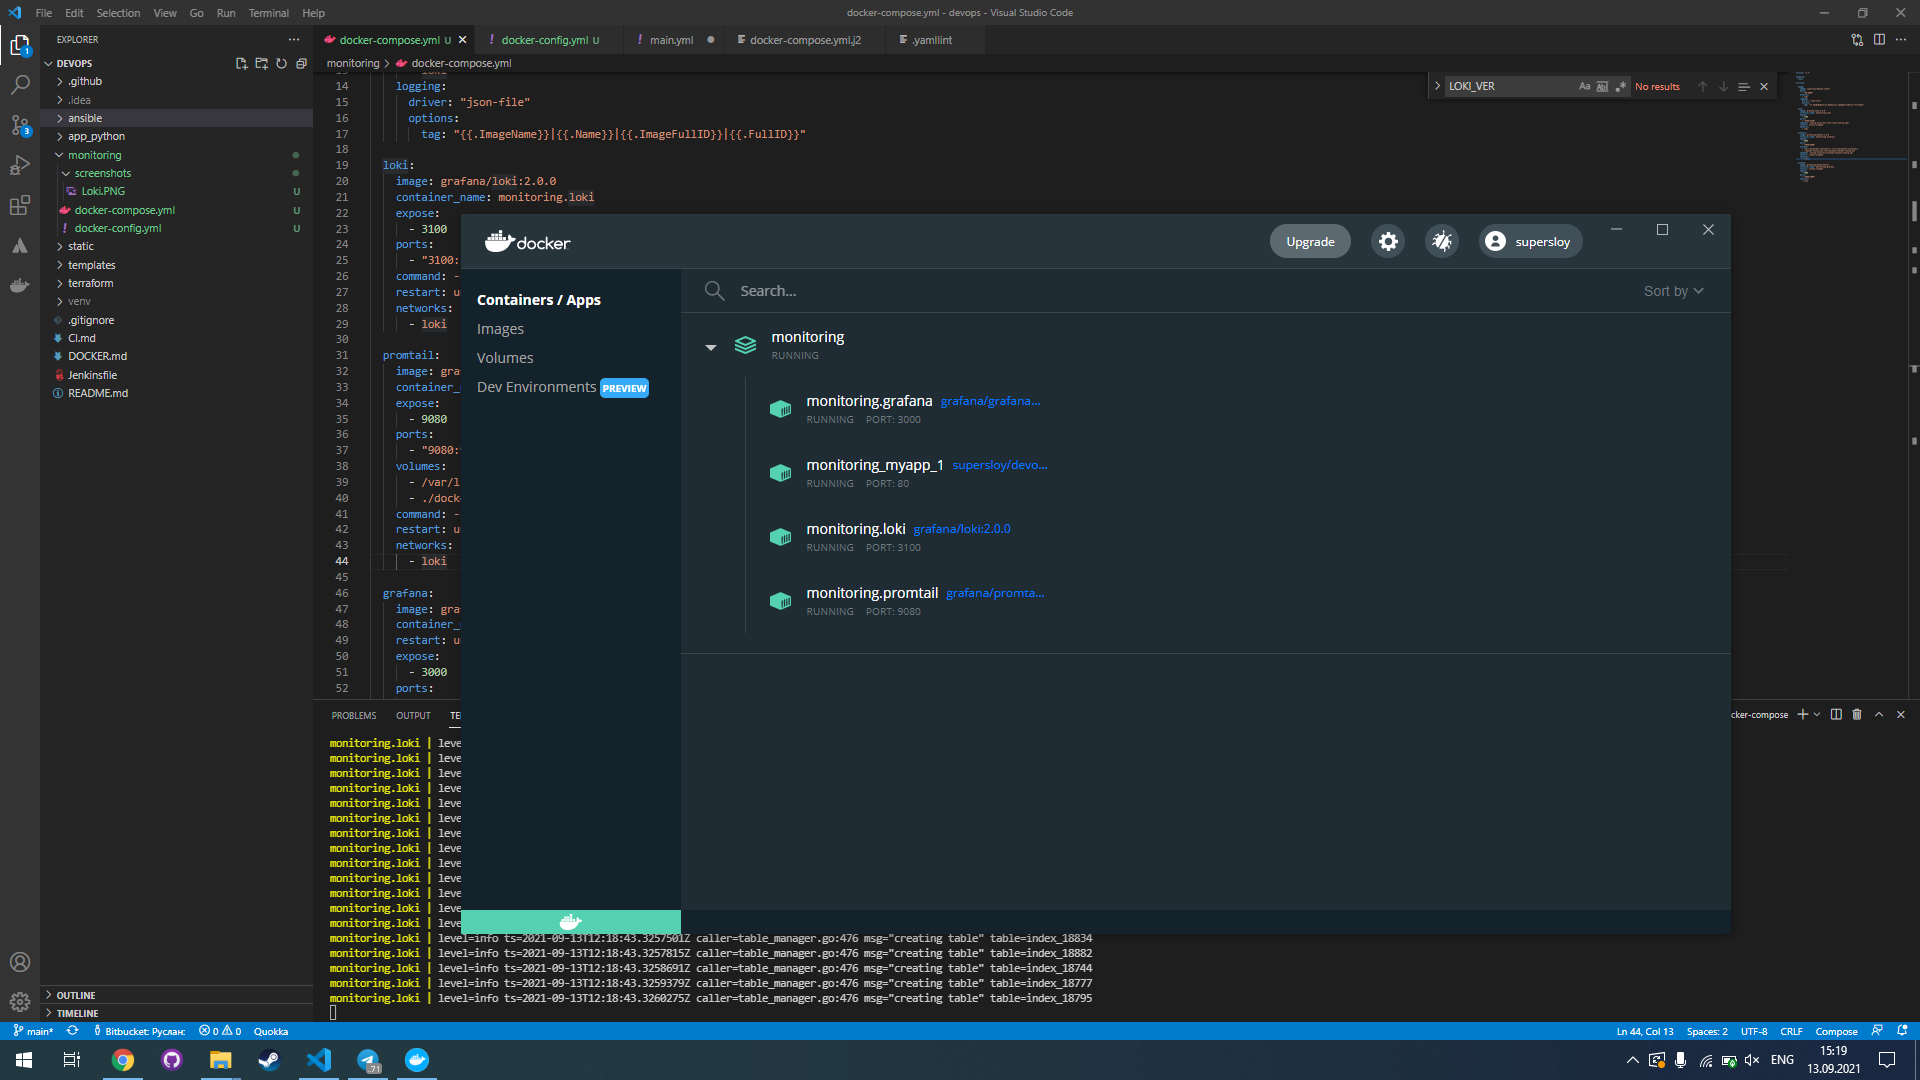
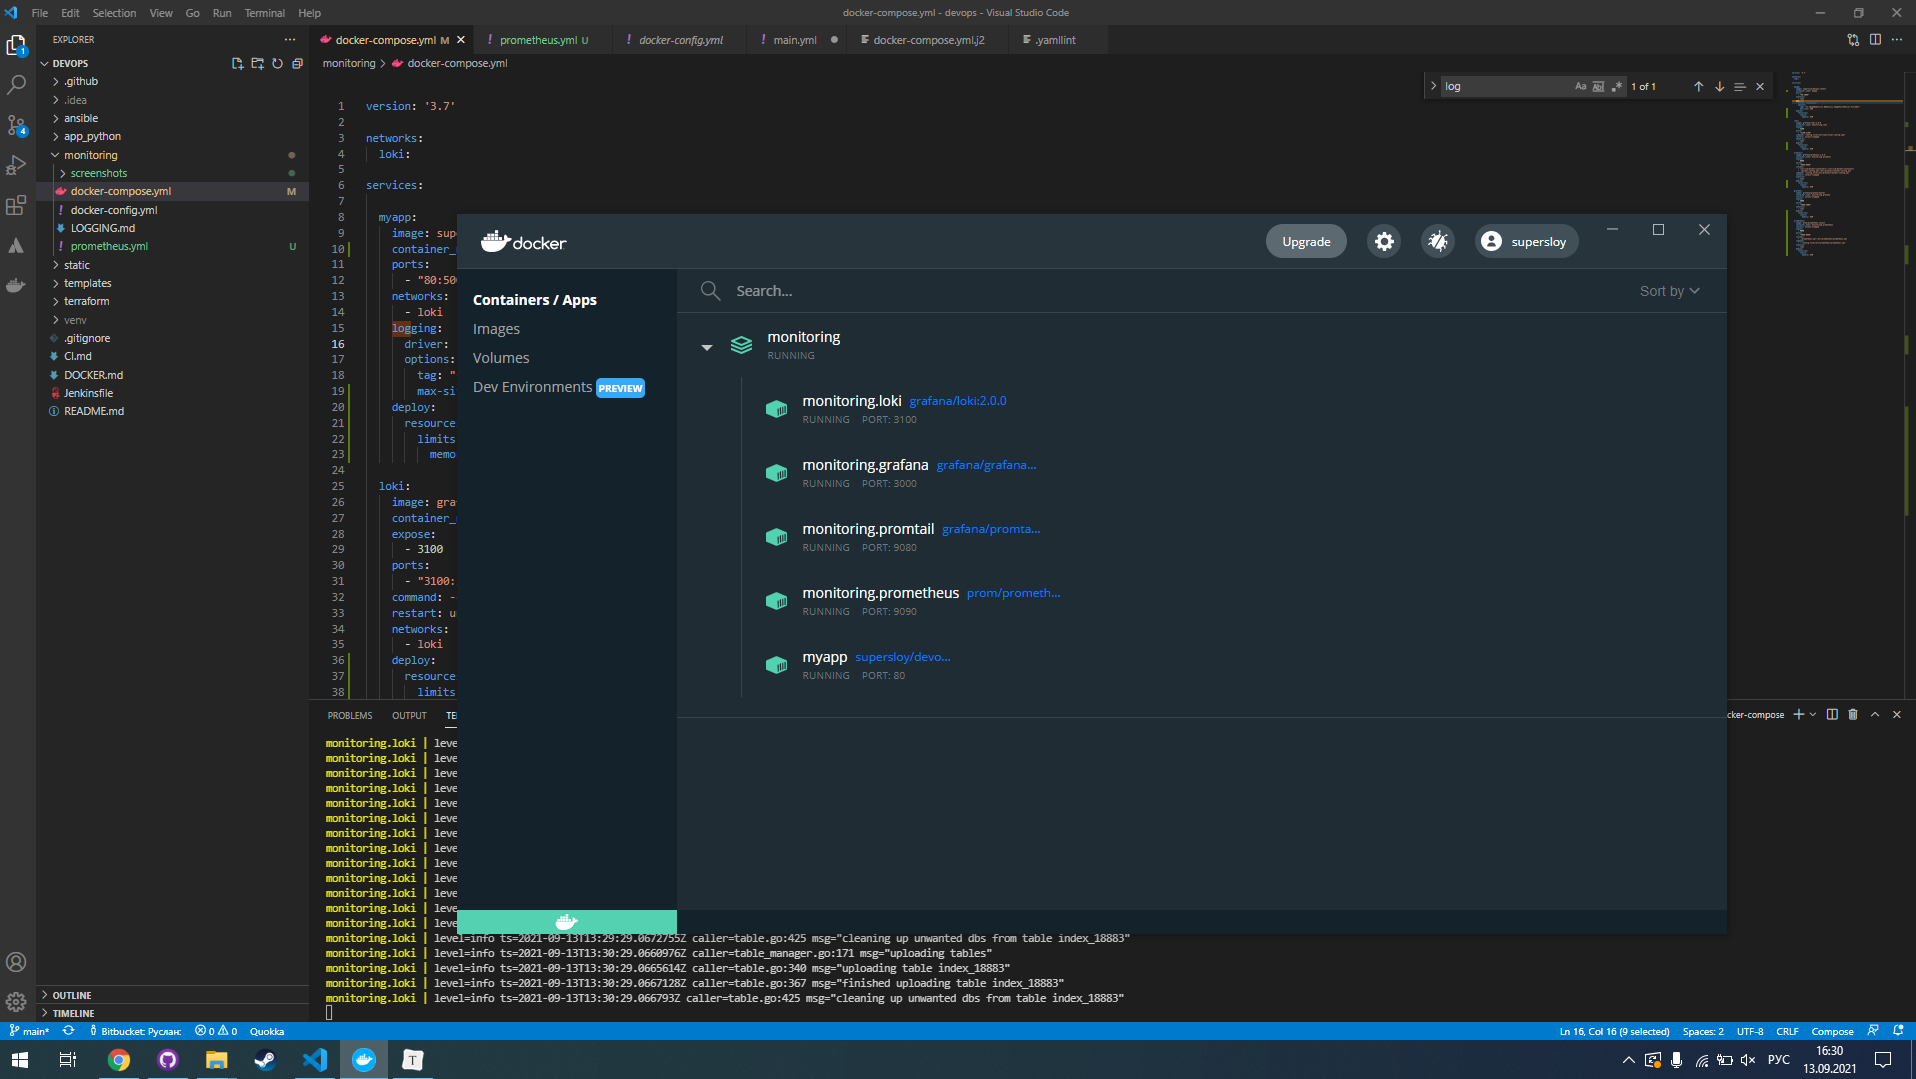
devops: 8 lab

diff --git a/monitoring/LOGGING.md b/monitoring/LOGGING.md
@@ -11,8 +11,8 @@ docker-compose up #From monitoring folder
 ### Usage
 
 Open [http://localhost:3000](http://localhost:3000/) in your browser to open Grafana. 
-Add loki as a source by using URL: ```http://loki:3100```.
-After that you can view logs in `Explore` section.
+Add loki or prometheus as a source by using URL: ```http://loki:3100``` for loki and `http://prometheus:9090` for prometheus.
+After that you can view logs in `Explore` section and add dashboard using previously defined sources.
 
 ## Best practices
 
@@ -43,5 +43,9 @@ After that you can view logs in `Explore` section.
 ![](\screenshots\Docker state.PNG)
 
 ![](\screenshots\Loki.PNG)
+
+![](\screenshots\Prometheus targets.PNG)
+
+![](\screenshots\Prometheus dashboard.PNG)
 
 (All screenshots are in `screenshots` folder)
